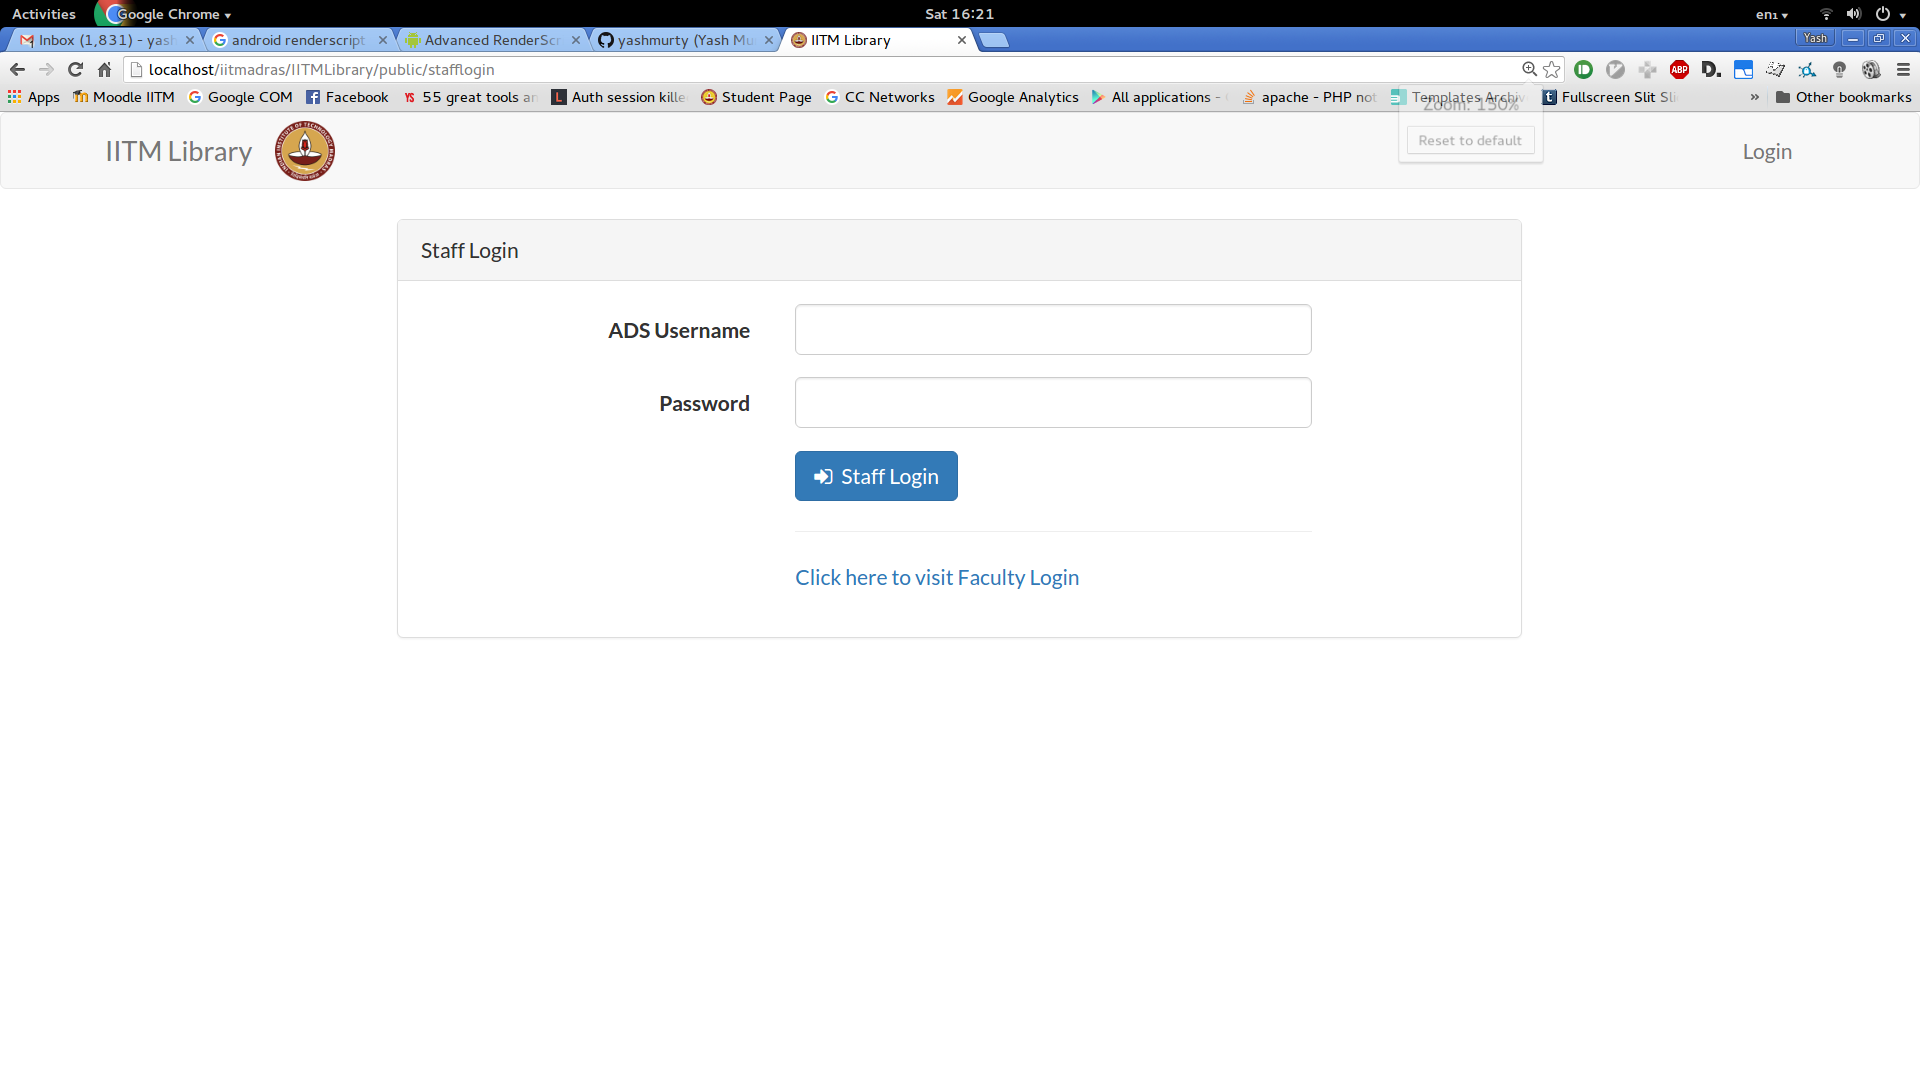
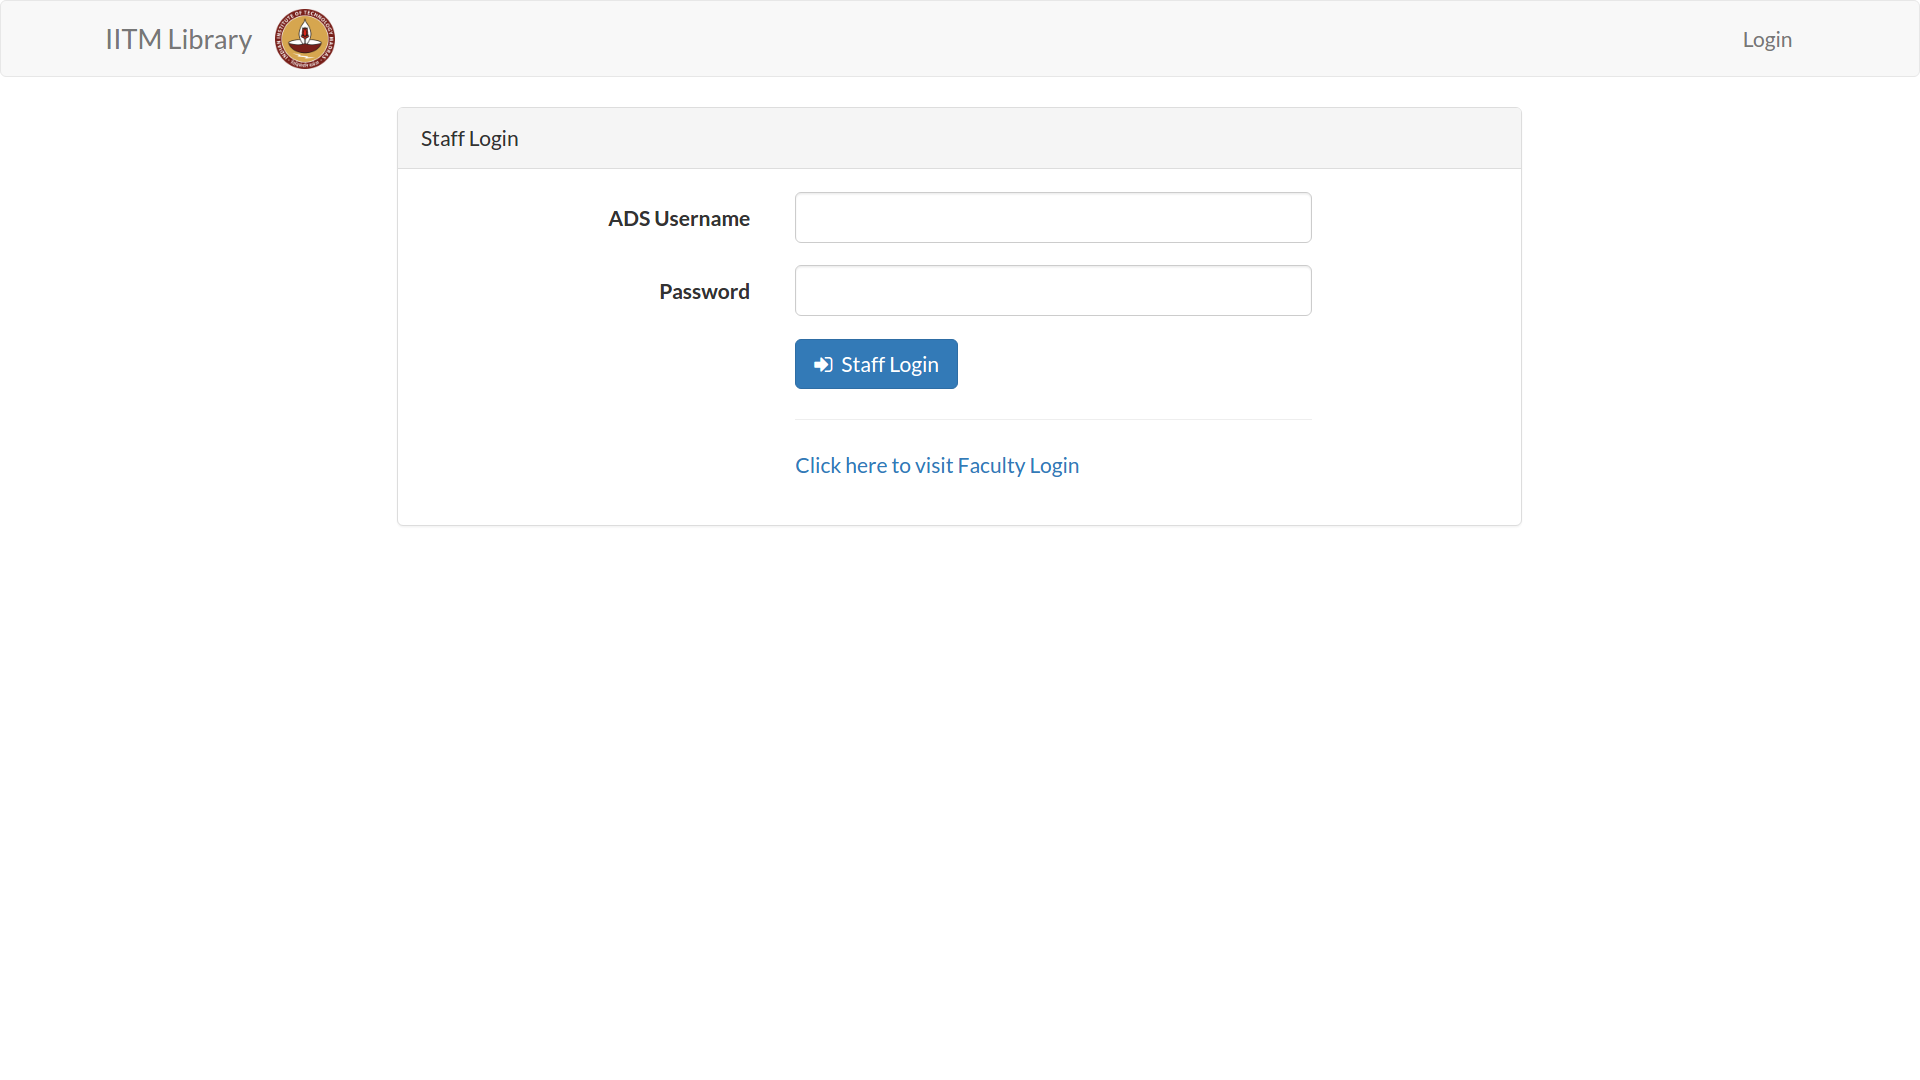
Docs - Admin Page Content initiate

diff --git a/public/docs/_build/html/searchindex.js b/public/docs/_build/html/searchindex.js
@@ -1,1 +1,1 @@
-Search.setIndex({envversion:47,filenames:["index","pages/administrators","pages/faculty","pages/lacmembers"],objects:{},objnames:{},objtypes:{},terms:{administr:[],after:2,again:2,approv:2,auto:2,automat:2,bar:2,book:[],can:2,check:2,click:2,come:[1,3],content:0,credenti:2,detail:2,documentaion:[],enter:[],faculti:[],fetch:2,fill:2,first:[],form:[],guid:[],have:2,hello:[],home:[],http:[0,2],index:[],inform:2,isbn:[],keep:2,lac:[],librarian:2,like:2,link:2,log:[],login:2,look:2,mail:2,member:[],modul:[],navig:2,need:2,notifi:2,now:2,number:2,onc:2,order:2,page:[],process:2,product:[0,2],redirect:2,reject:2,request:[],requisit:[],sai:2,search:[],server:[0,2],show:2,sign:2,sinc:2,soon:[1,3],start:2,statu:[],step:[],submit:2,take:2,taken:2,thi:2,third:2,three:2,time:[],top:2,url:[0,2],user:[],via:2,view:2,visit:2,which:2,yet:2,you:2,your:2},titles:["Welcome to IITM Library Portal&#8217;s documentation!","Documentation for Administrators","Documentation for Faculty","Documentation for LAC Members"],titleterms:{administr:1,book:2,document:[0,1,2,3],documentaion:[],enter:[],faculti:2,first:[],form:2,guid:[],home:2,iitm:0,indic:[],isbn:[],lac:3,librari:0,log:2,member:3,page:2,portal:0,request:2,requisit:2,statu:2,step:2,tabl:[],time:[],user:[],welcom:0}})
+Search.setIndex({envversion:47,filenames:["index","pages/administrators","pages/faculty","pages/lacmembers"],objects:{},objnames:{},objtypes:{},terms:{administr:[],after:[1,2],again:2,approv:2,auto:2,automat:[1,2],bar:2,below:1,book:[],button:1,can:[1,2],check:2,click:[1,2],come:3,content:0,credenti:[1,2],detail:[1,2],documentaion:[],enter:[],faculti:[],fetch:[1,2],fill:2,first:[],form:[],guid:[],have:2,hello:[],here:1,home:[],http:[0,1,2],index:[],inform:2,isbn:[],keep:2,lac:[],librarian:2,like:[1,2],link:[1,2],log:[],login:[1,2],look:[1,2],mail:2,member:[],modul:[],navig:2,need:2,note:[],notifi:2,now:2,number:[1,2],onc:2,order:2,page:[],process:2,product:[0,2],redirect:[1,2],reject:2,request:[],requisit:[],sai:[1,2],search:[],server:[0,2],show:2,sign:[1,2],sinc:[1,2],soon:3,staff:[],start:2,statu:[],step:[],submit:2,take:[1,2],taken:[1,2],thi:[1,2],third:2,three:2,time:[],top:2,url:[0,1,2],user:[],via:2,view:2,visit:[1,2],which:[1,2],yet:[1,2],you:[1,2],your:[1,2]},titles:["Welcome to IITM Library Portal&#8217;s documentation!","Documentation for Administrators","Documentation for Faculty","Documentation for LAC Members"],titleterms:{administr:1,book:2,document:[0,1,2,3],documentaion:[],enter:[],faculti:2,first:[],form:2,guid:[],home:[1,2],iitm:0,indic:[],isbn:[],lac:3,librari:0,log:[1,2],member:3,page:[1,2],portal:0,request:2,requisit:2,staff:1,statu:2,step:[1,2],tabl:[],time:[],user:[],welcom:0}})

diff --git a/public/docs/_build/html/pages/administrators.html b/public/docs/_build/html/pages/administrators.html
@@ -83,7 +83,11 @@
                 <ul class="current">
 <li class="toctree-l1"><a class="reference internal" href="faculty.html">Documentation for Faculty</a></li>
 <li class="toctree-l1"><a class="reference internal" href="lacmembers.html">Documentation for LAC Members</a></li>
-<li class="toctree-l1 current"><a class="current reference internal" href="#">Documentation for Administrators</a></li>
+<li class="toctree-l1 current"><a class="current reference internal" href="#">Documentation for Administrators</a><ul>
+<li class="toctree-l2"><a class="reference internal" href="#step-1-log-in-for-staff">Step 1 : Log in for Staff</a></li>
+<li class="toctree-l2"><a class="reference internal" href="#step-2-home-page">Step 2 : Home Page</a></li>
+</ul>
+</li>
 </ul>
 
             
@@ -130,7 +134,24 @@
             
   <div class="section" id="documentation-for-administrators">
 <h1>Documentation for Administrators<a class="headerlink" href="#documentation-for-administrators" title="Permalink to this headline">¶</a></h1>
-<p>Coming Soon.</p>
+<p>Visit the IITM Library URL. Since you are not yet signed in, you will be redirected to the Login URL which is <a class="reference external" href="http://10.24.0.175/login">http://10.24.0.175/login</a></p>
+<div class="section" id="step-1-log-in-for-staff">
+<h2>Step 1 : Log in for Staff<a class="headerlink" href="#step-1-log-in-for-staff" title="Permalink to this headline">¶</a></h2>
+<p>The Login Page looks like this.</p>
+<img alt="images/faculty/iitmlib-login.png" src="images/faculty/iitmlib-login.png" />
+<p>You can login using your ADS credentials.</p>
+<div class="admonition note">
+<p class="first admonition-title">Note</p>
+<p class="last">If you are not a Faculty, but are a member of Library Staff, click on the link below Faculty Login Button which says <strong>Click here to visit Library Staff Login</strong>.</p>
+</div>
+<p>The Staff Login Page looks like this.</p>
+<img alt="images/admin/admin-stafflogin.png" src="images/admin/admin-stafflogin.png" />
+</div>
+<div class="section" id="step-2-home-page">
+<h2>Step 2 : Home Page<a class="headerlink" href="#step-2-home-page" title="Permalink to this headline">¶</a></h2>
+<p>After Logging in, you will be taken to the Home page. You can enter the <strong>ISBN number</strong> on this page and it will automatically fetch the book details and take you to the <strong>Book Requisition Form</strong>. The Home page looks like this.</p>
+<img alt="images/faculty/iitmlib-home.png" src="images/faculty/iitmlib-home.png" />
+</div>
 </div>
 
 

diff --git a/public/docs/_build/html/index.html b/public/docs/_build/html/index.html
@@ -142,7 +142,11 @@
 </ul>
 </li>
 <li class="toctree-l1"><a class="reference internal" href="pages/lacmembers.html">Documentation for LAC Members</a></li>
-<li class="toctree-l1"><a class="reference internal" href="pages/administrators.html">Documentation for Administrators</a></li>
+<li class="toctree-l1"><a class="reference internal" href="pages/administrators.html">Documentation for Administrators</a><ul>
+<li class="toctree-l2"><a class="reference internal" href="pages/administrators.html#step-1-log-in-for-staff">Step 1 : Log in for Staff</a></li>
+<li class="toctree-l2"><a class="reference internal" href="pages/administrators.html#step-2-home-page">Step 2 : Home Page</a></li>
+</ul>
+</li>
 </ul>
 </div>
 </div>

diff --git a/public/docs/pages/administrators.rst b/public/docs/pages/administrators.rst
@@ -1,4 +1,29 @@
 Documentation for Administrators
 =========================
 
-Coming Soon.
+Visit the IITM Library URL. Since you are not yet signed in, you will be redirected to the Login URL which is http://10.24.0.175/login
+
+==================
+Step 1 : Log in for Staff
+==================
+
+The Login Page looks like this.
+
+.. image:: /images/faculty/iitmlib-login.png
+
+You can login using your ADS credentials.
+
+.. note::
+	 If you are not a Faculty, but are a member of Library Staff, click on the link below Faculty Login Button which says **Click here to visit Library Staff Login**.
+
+The Staff Login Page looks like this.
+
+.. image:: /images/admin/admin-stafflogin.png
+
+===================
+Step 2 : Home Page
+===================
+
+After Logging in, you will be taken to the Home page. You can enter the **ISBN number** on this page and it will automatically fetch the book details and take you to the **Book Requisition Form**. The Home page looks like this.
+
+.. image:: /images/faculty/iitmlib-home.png
